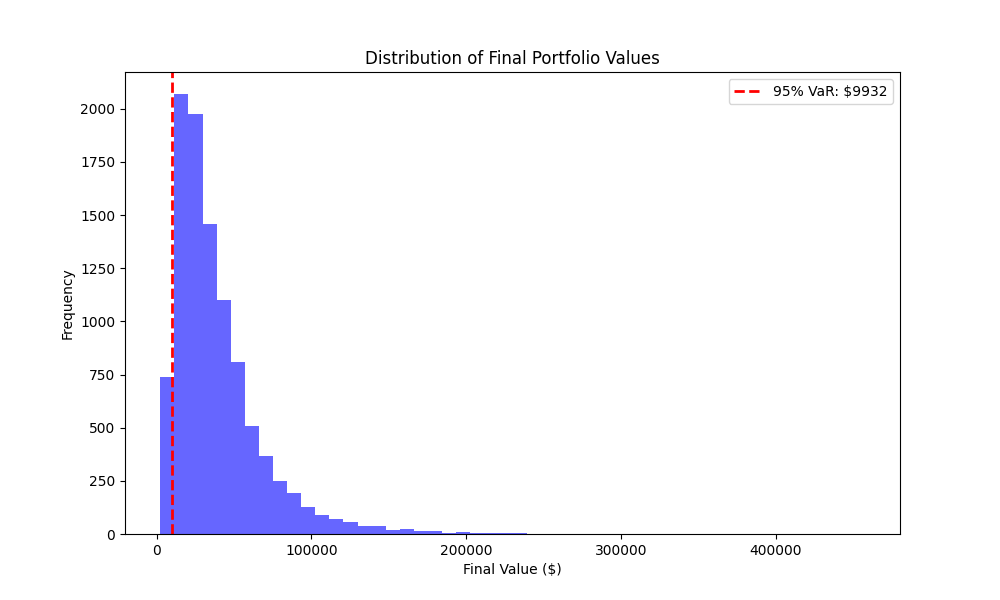
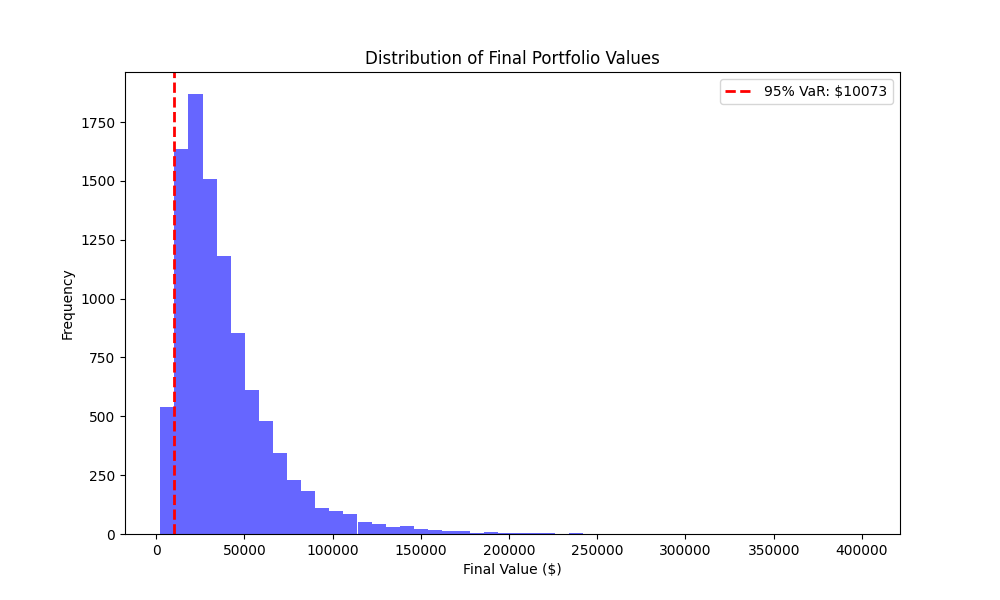
details updated

diff --git a/main.py b/main.py
@@ -5,9 +5,9 @@ from src.portfolio_optimizer import optimize_portfolio
 from src.visualizer import plot_efficient_frontier
 from src.risk_manager import monte_carlo_simulation, plot_simulation
 
-TICKERS = ['AAPL', 'MSFT', 'GOOG', 'AMZN', 'TSLA', 'NVDA']
+TICKERS = ['MSFT', 'JPM', 'JNJ', 'KO', 'XOM', "TLT"]
 START_DATE = '2020-01-01'
-END_DATE = datetime.datetime.today().strftime('%Y-%m-%d')
+END_DATE = '2025-12-31'
 RISK_FREE_RATE = 0.044
 
 def main():
